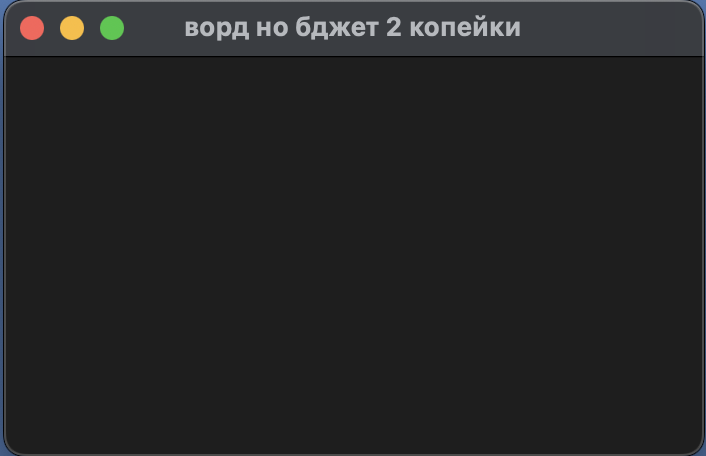
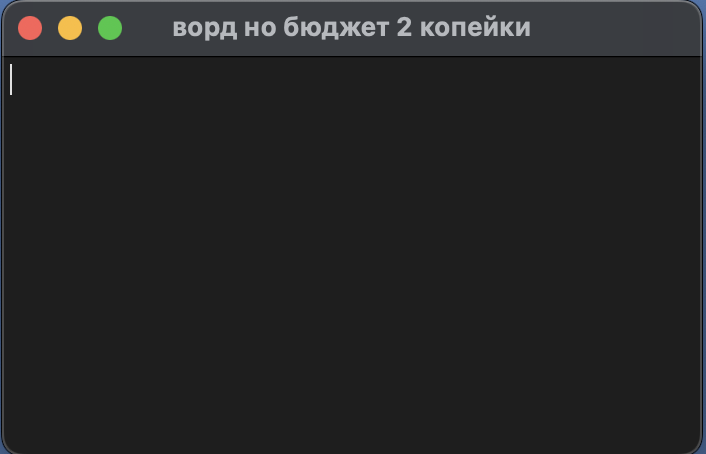
изменено изображение

Changed region(s): [[0.0, 0.0, 1.0, 1.0], [0.2493, 0.0308, 0.7479, 0.0925]]

diff --git a/freeWord.py b/freeWord.py
@@ -9,7 +9,7 @@ class Window(QMainWindow):
     def __init__(self):
         super(Window, self).__init__()
 
-        self.setWindowTitle("ворд но бджет 2 копейки")
+        self.setWindowTitle("ворд но бюджет 2 копейки")
         self.setGeometry(300, 250, 350, 200)
 
         self.textEdit = QtWidgets.QTextEdit(self)
